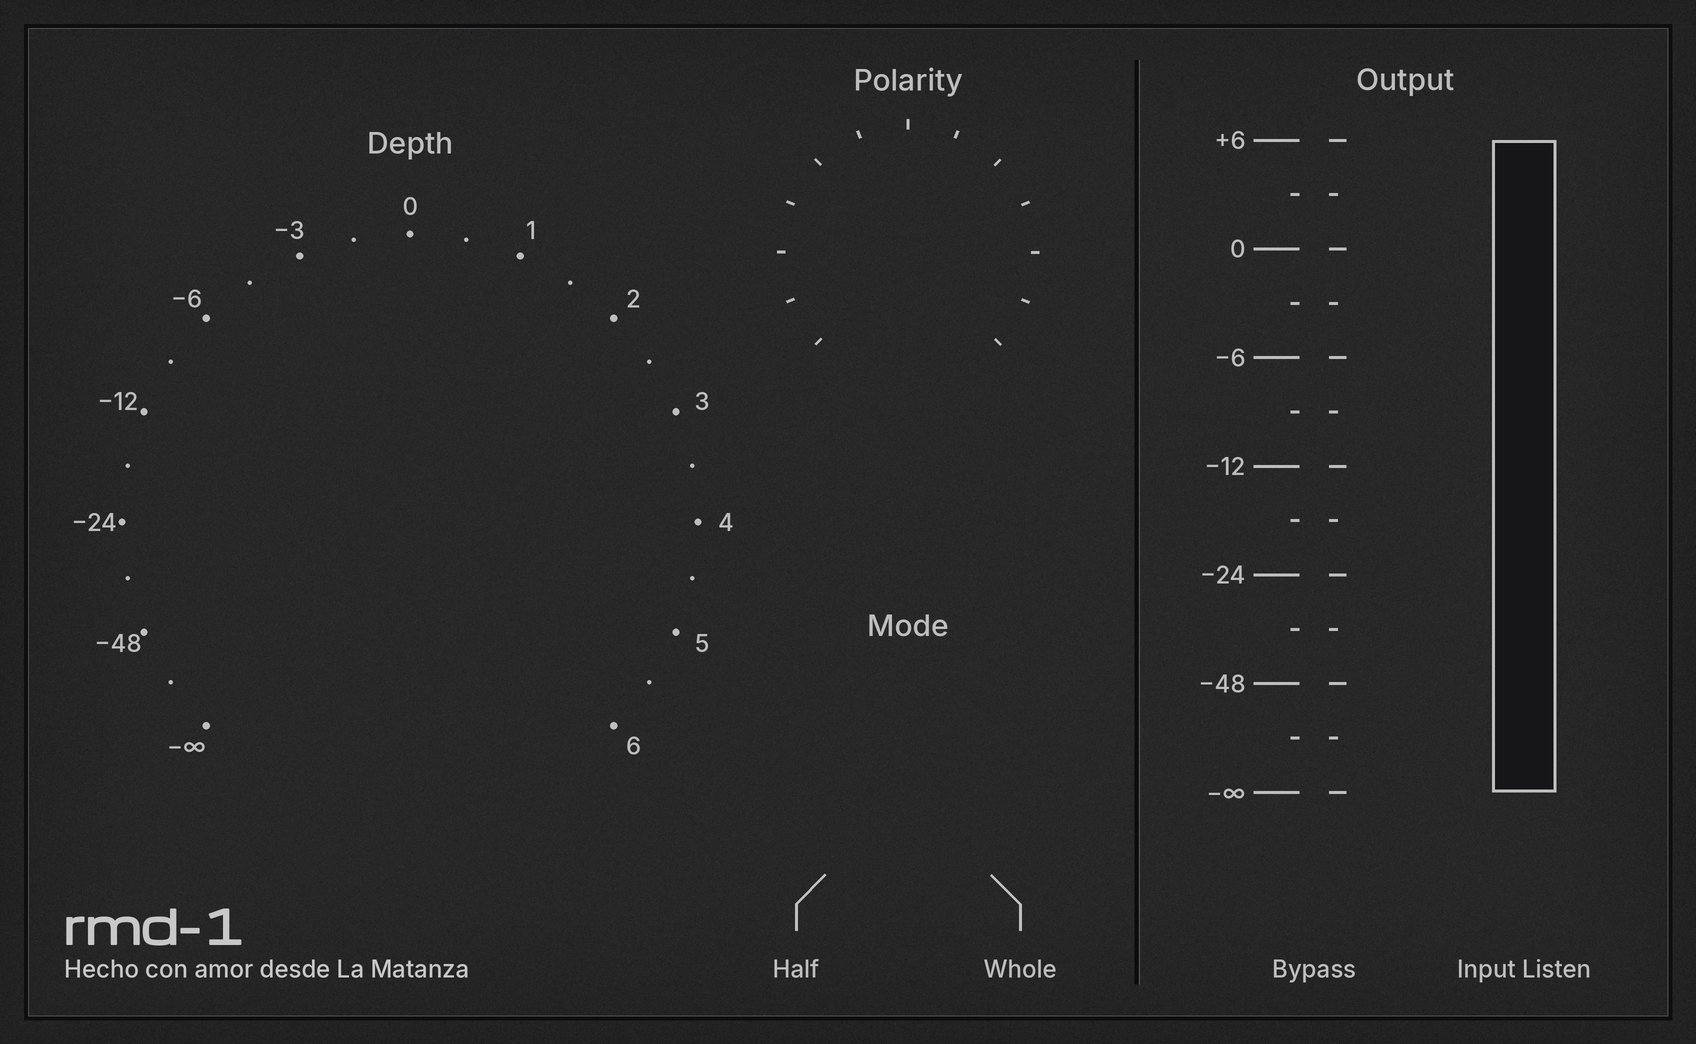
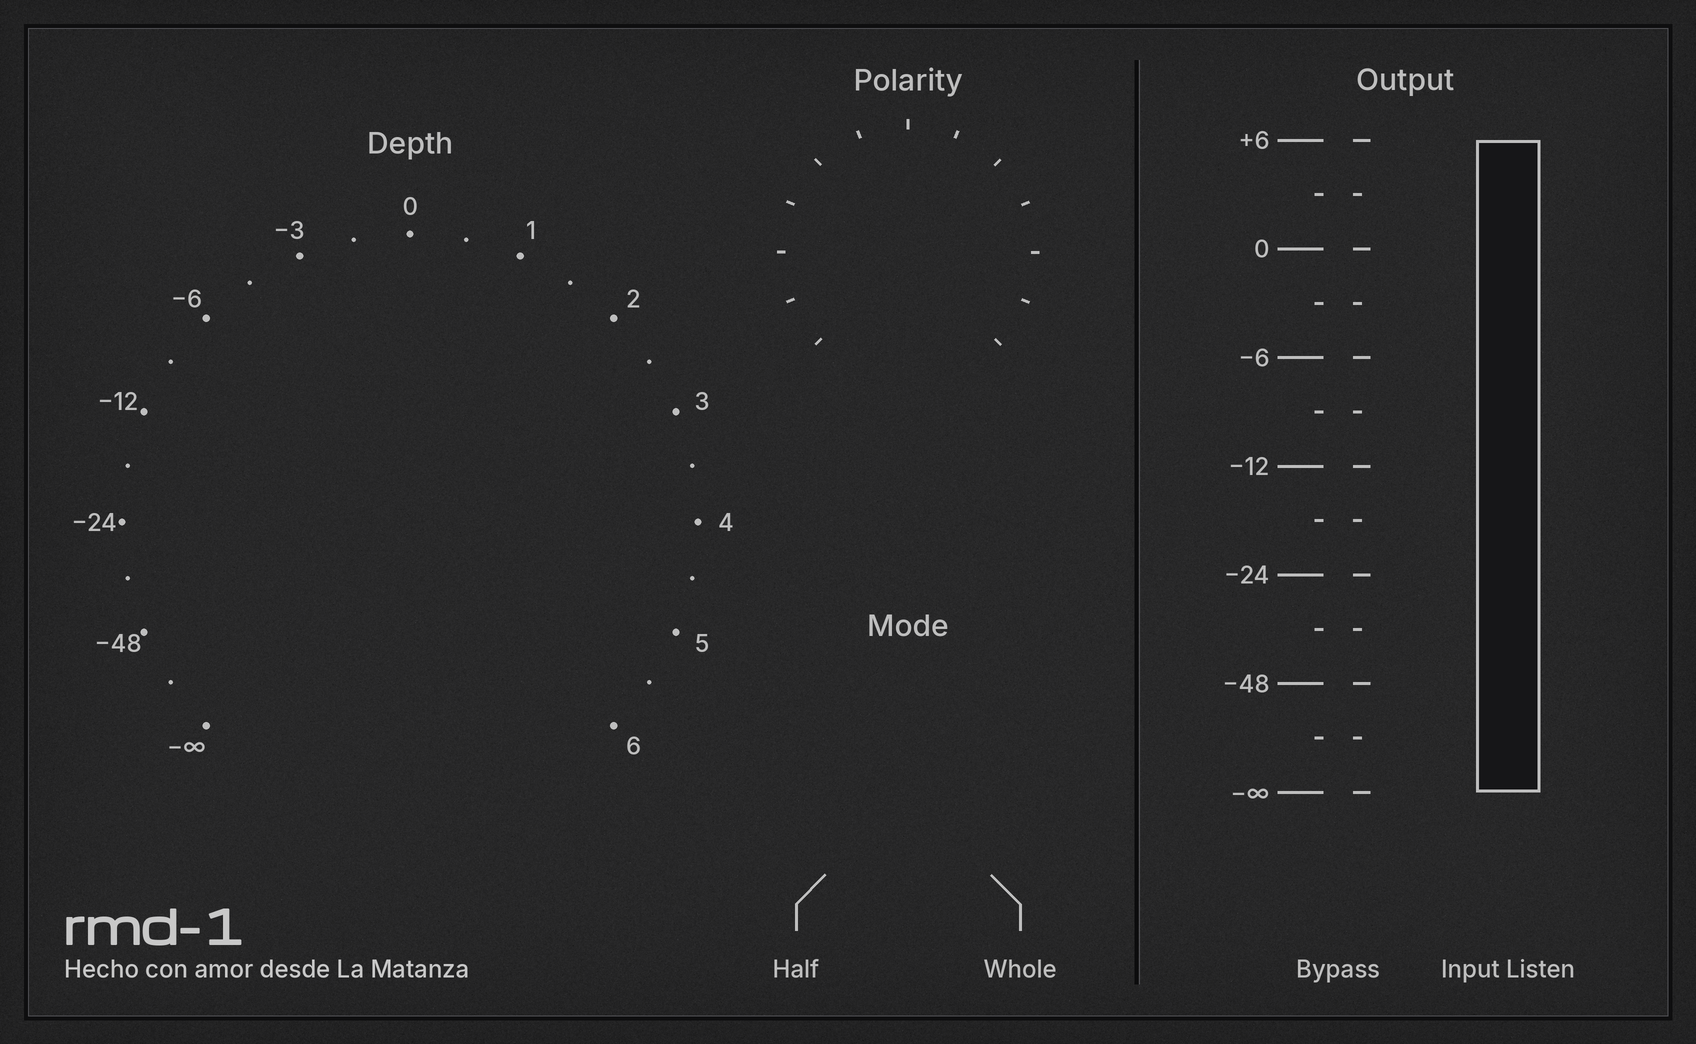
Output: seccion mas apretada horizontalmente [skip ci]
Claude-Session: https://claude.ai/code/session_01LmYTuHAKQSU8qhR6nNkVAi

diff --git a/Source/PluginEditor.cpp b/Source/PluginEditor.cpp
@@ -9,7 +9,7 @@ namespace
     constexpr float kDepthCx = 410.0f, kDepthCy = 522.0f, kDepthR = 270.0f;
     constexpr float kPolCx = 908.0f, kPolCy = 252.0f, kPolR = 112.0f;
     constexpr float kModeCx = 908.0f, kModeCy = 792.0f, kModeR = 112.0f;
-    constexpr int   kFaderX = 1314, kTop = 140, kBottom = 792;       // pista del fader: de y=140 (+6 dB) a y=792 (-inf)
+    constexpr int   kFaderX = 1338, kTop = 140, kBottom = 792;       // pista del fader: de y=140 (+6 dB) a y=792 (-inf)
     constexpr float kBtnY0 = 857.25f, kBtnSize = 64.0f;
     constexpr int   kNumFrames = 136, kAtlasCols = 12;               // un cuadro del puntero cada 2 grados
     const Colour kInk (60, 60, 60);
@@ -188,7 +188,7 @@ namespace
             : Ctl (p), tf (tf_),
               slot (img (BinaryData::ui_fader_slot_png, BinaryData::ui_fader_slot_pngSize)),
               capImg (img (BinaryData::ui_fader_cap_png, BinaryData::ui_fader_cap_pngSize))
-        { setDesign ({ 1234, 112, 160, 736 }); }
+        { setDesign ({ 1258, 112, 160, 736 }); }
         bool hitTest (int x, int y) override { const auto p = designOf (x, y); return p.y <= (float) kBottom + 24.0f; }
         float yOf (float n) const { return (float) kBottom - n * (float) (kBottom - kTop); }
         void paint (Graphics& g) override
@@ -255,8 +255,8 @@ struct PhantomAsymEditor::Impl
                 img (BinaryData::ui_mode_half_png, BinaryData::ui_mode_half_pngSize),
                 img (BinaryData::ui_mode_whole_png, BinaryData::ui_mode_whole_pngSize)),
           fader (*p.apvts.getParameter ("output"), tfReg),
-          bypass (*p.apvts.getParameter ("bypass"), 1314),
-          listen (*p.apvts.getParameter ("listen"), 1524)
+          bypass (*p.apvts.getParameter ("bypass"), 1338),
+          listen (*p.apvts.getParameter ("listen"), 1508)
     {}
 
     Image bg; Typeface::Ptr tfReg;
@@ -296,14 +296,14 @@ void PhantomAsymEditor::paint (Graphics& g)
         if (i < lit)
         {
             g.setColour (Colour (170, 170, 172));
-            g.fillRect (1501.0f, y, 46.0f, kBar);
+            g.fillRect (1485.0f, y, 46.0f, kBar);
             g.setColour (Colour (214, 214, 216));
-            g.fillRect (1501.0f, y, 46.0f, 1.2f);
+            g.fillRect (1485.0f, y, 46.0f, 1.2f);
         }
         else
         {
             g.setColour (Colour (46, 46, 48));
-            g.fillRect (1501.0f, y, 46.0f, kBar);
+            g.fillRect (1485.0f, y, 46.0f, kBar);
         }
     }
 }
@@ -315,7 +315,7 @@ void PhantomAsymEditor::timerCallback()
     if (std::abs (next - meterShown) > 0.05f)
     {
         meterShown = next;
-        repaint (746, 70, 32, 326);   // medidor (logico)
+        repaint (738, 70, 32, 326);   // medidor (logico)
     }
 }
 

diff --git a/UI_definitiva/generadores/bg_gen.py b/UI_definitiva/generadores/bg_gen.py
@@ -27,8 +27,8 @@ pt=24+M; dt=pt+112; db=dt+540; mb=db+112
 A13=[-135+22.5*i for i in range(13)]
 ticks(908,pt+112,112,A13,{0.0},gap=11,lmin=8,lmaj=10)
 d.line(sc(divX,60,divX,H-60),fill=(12,12,13),width=4*S); d.line(sc(divX+3,60,divX+3,H-60),fill=(84,84,88),width=1*S)
-fx=1314; pass
-box(1492,pt,1556,db)
+fx=1338; pass
+box(1476,pt,1540,db)
 for i in range(7):   # marcas del fader a ambos lados (+6, 0, -6, -12, -24, -48, -inf)
     y=pt+(db-pt)*i/6
     d.line(sc(fx-60.5,y,fx-15,y),fill=G,width=int(3*S)); d.line(sc(fx+15,y,fx+32,y),fill=G,width=int(3*S))   # larga a la izquierda (con el numero), corta a la derecha, ambas desde el recorrido
@@ -53,7 +53,7 @@ bb=d.textbbox((0,0),'Input Listen',font=bf,anchor='ls'); th=(-bb[1])/S; desc=bb[
 unit=64+GAP_T+th+desc; gap=((H-24)-db-unit)/2
 by0=db+gap; by1=by0+64
 YB=(by1+(H-24))/2; base=YB-(bb[1]+bb[3])/(2*S)  # tinta centrada entre fin de boton y borde
-for cx,name in ((fx,'Bypass'),(1524,'Input Listen')):
+for cx,name in ((fx,"Bypass"),(1508,"Input Listen")):
     txt(cx,base,name,bf,'ms')
 txt(796,base,'Half',bf,'ms'); txt(1020,base,'Whole',bf,'ms')
 fv=FR(24); bbv=d.textbbox((0,0),'-3.00 dB',font=fv,anchor='ls'); ym=(db+by0)/2
